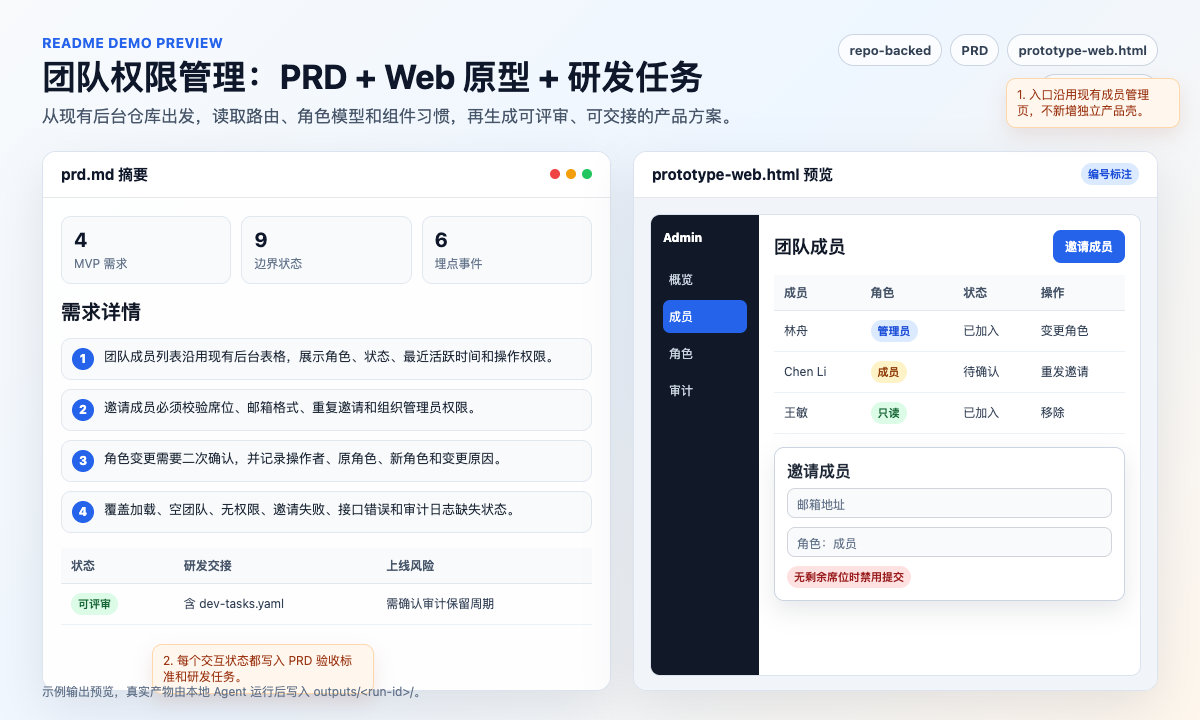
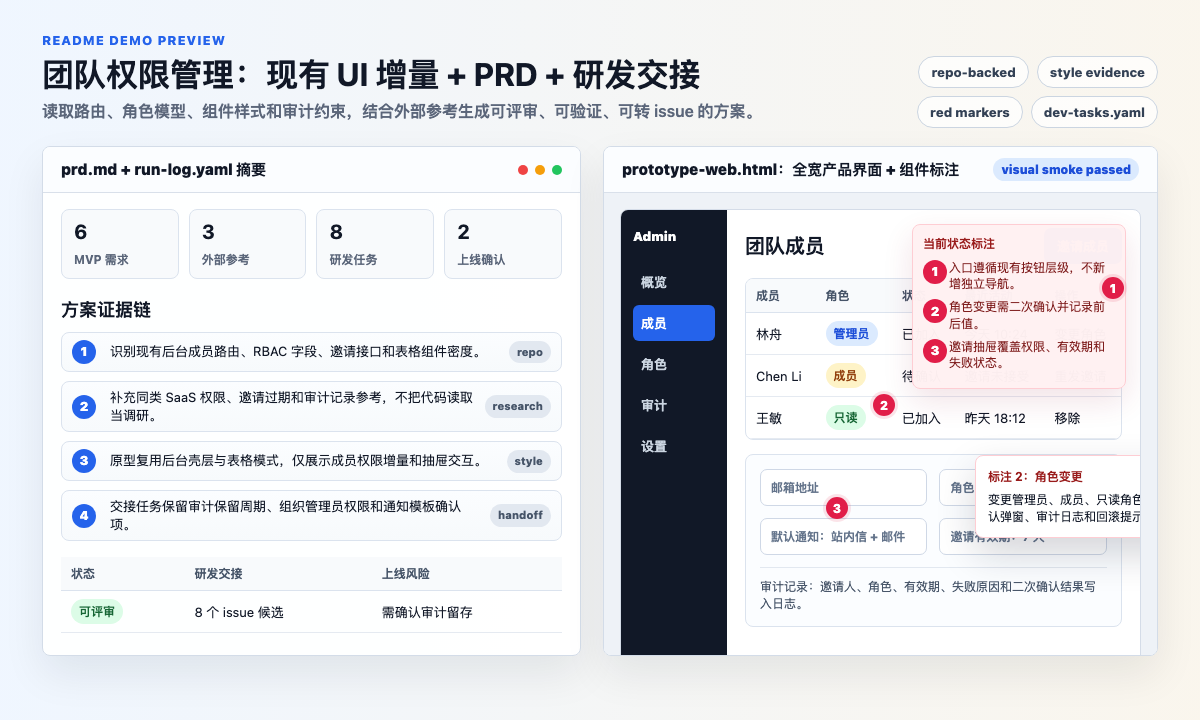
docs: refresh readme demos

diff --git a/README.en.md b/README.en.md
@@ -33,14 +33,14 @@ PM Copilot treats English and Chinese as first-class user-facing languages. Gene
 For direct agent usage, see `docs/direct-use.md`. For embedded project usage, see `docs/embedded-use.md`.
 
 1. Open this repository in your agent-enabled workspace.
-2. Ask the agent to read `PM_COPILOT.md`, then say your product-manager request naturally, for example: `I need a PRD and tracking plan for checkout coupon optimization.`
+2. Ask the agent to read `PM_COPILOT.md`, then say your product-manager request naturally, for example: `I need a PRD, tracking plan, and H5 prototype for membership auto-renewal optimization.`
 3. The agent should inspect relevant context, ask must-answer clarification questions before generation, then create `prd.md` and a prototype automatically.
 4. Optional: create local memory files later for better product-specific results and personal working preferences.
 
 Suggested prompt:
 
 ```text
-We want to improve coupon usage on checkout. Users say they cannot find where to apply coupons, and support tickets are increasing.
+We want to improve the H5 membership auto-renewal experience. Users say renewal reminders are unclear, the cancellation entry is hard to find, and support tickets are increasing.
 
 If important information is missing, ask me first.
 If enough information is available, create `prd.md` and the matching clickable prototype.
@@ -48,18 +48,19 @@ If enough information is available, create `prd.md` and the matching clickable p
 
 ## Two Practical Demos
 
-Paste either request into an agent-enabled workspace. PM Copilot should classify the context mode first, ask blocking questions when required, and generate the PRD, clickable prototype, and optional handoff artifacts only after the clarification gate passes.
+Paste either request into an agent-enabled workspace. PM Copilot should classify the context mode first, load the required agents, skills, contracts, and tooling rules, ask blocking questions when required, and generate the PRD, clickable prototype, run trace, and optional handoff artifacts only after the clarification gate passes.
 
 ### Demo 1: Team Permission Management in an Existing Project
 
-Use this to show that PM Copilot does more than write generic docs: it should inspect the current repository and fit the requirement into existing routes, role models, permission logic, and UI patterns.
+Use this to show that PM Copilot does more than write generic docs: it should inspect the current repository and fit the requirement into existing routes, role models, permission logic, UI components, and analytics conventions while separating external references from current-product context and engineering handoff work.
 
 ![Team permission management demo screenshot](docs/assets/readme-demo-team-permissions.png)
 
 ```text
 We need team permission management in the admin console.
 
-Please inspect the existing routes, role model, member management page, permission checks, and component patterns first.
+Please inspect the existing routes, role model, member management page, permission checks, analytics conventions, and component patterns first.
+Do a small amount of external comparable-product research, but do not treat repository files as competitor research.
 If important information is missing, ask me before generation.
 If enough information is available, create the PRD, a Web clickable annotated prototype, and issue-ready engineering tasks.
 ```
@@ -68,37 +69,38 @@ A useful run should produce:
 
 | Artifact | What to look for |
 |---|---|
-| `outputs/team-permissions/prd.md` | Target users, current-product constraints, MVP/optional/future scope, member invites, role changes, permission blocking, audit logs, loading/empty/error/no-permission states |
-| `outputs/team-permissions/prototype-web.html` | Admin member list, invite drawer, role-change confirmation, permission notice, numbered product annotations |
-| `outputs/team-permissions/dev-tasks.yaml` | Issue-ready engineering tasks, dependencies, acceptance criteria, test notes |
-| `outputs/team-permissions/run-log.yaml` | Host project files loaded, assumptions used, blockers, validation commands and results |
+| `outputs/team-permissions/prd.md` | Target users, current-product constraints, external reference findings, MVP/optional/future scope, member invites, role changes, permission blocking, audit logs, loading/empty/error/no-permission states |
+| `outputs/team-permissions/prototype-web.html` | A Web prototype that reuses the existing admin shell and table density, with red component markers, click-open annotation dialogs, and a current-state annotation list |
+| `outputs/team-permissions/dev-tasks.yaml` | Issue-ready engineering tasks, dependencies, acceptance criteria, test notes, likely host files, and blocking confirmations |
+| `outputs/team-permissions/run-log.yaml` | Context mode, host project files loaded, external research sources, style evidence, existing UI baseline, tool validation, and unresolved risks |
 
-This demo highlights `repo-backed` context loading, Chinese or English PRDs, Web prototypes, tracking design, engineering handoff, and permission/edge-state coverage.
+This demo highlights `repo-backed` context loading, separation of external research from repository context, Chinese or English PRDs, existing-UI delta prototypes, red component annotations, engineering handoff, and permission/edge-state coverage.
 
-### Demo 2: Checkout Coupon Optimization Without a Code Repository
+### Demo 2: Membership Auto-Renewal Optimization Without a Code Repository
 
-Use this to show that PM Copilot can start from a brief or product documents, without requiring a code repository, and still produce review-ready product work.
+Use this to show that PM Copilot can start from a brief or product documents, without requiring a code repository, and still handle higher-risk product requirements involving payment, cancellation, reminders, tracking, privacy, and launch gates.
 
-![Checkout coupon optimization demo screenshot](docs/assets/readme-demo-checkout-coupon.png)
+![Membership auto-renewal demo screenshot](docs/assets/readme-demo-membership-renewal.png)
 
 ```text
-We want to improve the H5 checkout coupon experience. Users say they cannot find the coupon entry, and support tickets are increasing.
+We want to improve the H5 membership auto-renewal experience. Users say renewal reminders are unclear, the cancellation entry is hard to find, and support tickets are increasing.
 
-The business goal is to increase coupon usage without materially hurting payment conversion.
-If you need existing rules, coupon types, unavailable reasons, or metric definitions, ask me first.
-When enough information is available, create the PRD, H5 clickable annotated prototype, and tracking plan.
+The business goal is to reduce renewal-related complaints without materially hurting membership retention.
+If you need current billing rules, reminder timing, cancellation paths, support scripts, legal requirements, or metric definitions, ask me first.
+When enough information is available, create the PRD, H5 clickable annotated prototype, tracking plan, and launch decision recommendation.
 ```
 
 A useful run should produce:
 
 | Artifact | What to look for |
 |---|---|
-| `outputs/checkout-coupon/prd.md` | User problem, business goals, metric definitions, coupon entry, usable/unusable coupons, default recommendation, error states, launch risks, acceptance criteria |
-| `outputs/checkout-coupon/prototype-h5.html` | Checkout entry, coupon list sheet, unavailable reasons, price refresh after selection, mobile annotations |
-| Tracking table inside the PRD | Events such as `checkout_coupon_entry_view`, `coupon_select_submit`, `coupon_apply_result`, plus a property dictionary |
-| `outputs/checkout-coupon/run-log.yaml` | Clarifying questions, default assumptions, unresolved promotion/finance/legal risks, validation records |
+| `outputs/membership-renewal/prd.md` | User problem, business goals, external references, current assumptions, reminder strategy, cancellation flow, payment/support/legal risks, acceptance criteria, and launch status |
+| `outputs/membership-renewal/prototype-h5.html` | Membership center entry, renewal reminder, auto-renewal management, cancellation confirmation, result receipt, logged-out/no-membership/API-failure states |
+| Tracking table inside the PRD | Events such as `renewal_notice_view`, `renewal_manage_open`, `renewal_cancel_submit`, `renewal_cancel_result`, plus privacy notes |
+| `outputs/membership-renewal/launch-decision.yaml` | Engineering-ready scope, launch blockers, legal/payment/support owners, rollback recommendation, and missing human approvals |
+| `outputs/membership-renewal/run-log.yaml` | Clarifying questions, default assumptions, external research status, access-state visual validation, tool results, and unresolved gates |
 
-This demo highlights `document-backed` or `brief-only` mode, localized delivery, mobile prototypes, metrics and tracking, and explicit promotion-rule risk handling.
+This demo highlights `document-backed` or `brief-only` mode, localized delivery, mobile prototypes, access-state coherence, metrics and tracking, explicit payment/privacy/legal risk handling, and separated engineering handoff versus launch decision status.
 
 ## Use Inside an Existing Project
 
@@ -181,7 +183,7 @@ The default interaction mode is "clarify before generation." If must-answer info
 
 For reference, policy, medical, legal, financial, safety, or operational content, PM Copilot records source status, review owner, review status, disclaimer status, and launch impact. Unreviewed content must be labeled as placeholder or draft even when the surrounding product framework is ready for engineering.
 
-Each real requirement run gets one generated-artifact folder under `outputs/<run-id>/`, normally containing `prd.md`, `prototype-<platform>.html`, and optionally `run-log.yaml`. The `outputs/` folder is generated at runtime and is not shipped with example artifacts. If the inferred run id already exists, PM Copilot should append a local timestamp, for example `checkout-coupon-20260518-1430`.
+Each real requirement run gets one generated-artifact folder under `outputs/<run-id>/`, normally containing `prd.md`, `prototype-<platform>.html`, and optionally `run-log.yaml`. The `outputs/` folder is generated at runtime and is not shipped with example artifacts. If the inferred run id already exists, PM Copilot should append a local timestamp, for example `membership-renewal-20260518-1430`.
 
 When UI prototypes are generated, PM Copilot should run `python3 scripts/validate_prototype_visual.py outputs/<run-id>`. If Playwright or browser tooling is missing, it should first run or guide `python3 scripts/setup_visual_validation.py`; a skipped status is allowed only after setup fails, the environment forbids browser launch, or the user declines installation. Before final delivery, prefer `python3 scripts/run_delivery_checks.py outputs/<run-id> --language en` and store tool evidence under `outputs/<run-id>/tool-results/`. When the user asks for engineering handoff or release readiness, the same run folder may also contain `dev-tasks.yaml` and `launch-decision.yaml`.
 

diff --git a/docs/direct-use.md b/docs/direct-use.md
@@ -23,10 +23,12 @@ The agent should automatically follow `PM_COPILOT.md` and:
 - Ask must-answer clarification questions before downstream generation.
 - Stop and wait when critical information is missing or an unresolved development/launch confirmation blocks the requested readiness.
 - Generate `prd.md`, a prototype when relevant, optional exports when useful, and an internal run log.
-- Keep requirement input, clarified answers, assumptions, research/reference findings, metrics, tracking plan tables, flow diagrams, risks, acceptance criteria, and validation results inside `prd.md` by default.
+- Keep requirement input, clarified answers, assumptions, source-backed research/reference findings, metrics, tracking plan tables, flow diagrams, risks, acceptance criteria, and validation results inside `prd.md` by default.
+- Treat repository files as current-product context, not as competitor or benchmark research. When external research is unavailable, mark recommendations as assumption-based.
+- For UI prototypes, use visible red component markers, click-open annotation dialogs, and current-state annotation lists instead of shrinking the product UI into a permanent side annotation board.
 - Run tool preflight and validation when required by `tools/tool-registry.yaml`.
 - Prefer `python3 scripts/run_delivery_checks.py outputs/<run-id> --language <zh|en>` before final delivery.
-- Run browser screenshot/visual diff validation for prototypes. If Playwright/browser tooling is missing, first run or guide `python3 scripts/setup_visual_validation.py`; skip only when setup fails, the environment forbids browser launch, or the user declines installation.
+- Run browser screenshot/visual diff validation for prototypes, including DOM smoke and access-state checks when applicable. If Playwright/browser tooling is missing, first run or guide `python3 scripts/setup_visual_validation.py`; skip only when setup fails, the environment forbids browser launch, or the user declines installation.
 - Generate `dev-tasks.yaml` or `launch-decision.yaml` only when you ask for engineering handoff, issue planning, release readiness, or launch decision support.
 
 ## Direct Entry
@@ -120,21 +122,24 @@ If you ask for unattended development handoff, PM Copilot can generate issue-rea
 ## Example
 
 ```text
-We want to improve coupon usage on checkout. Users say they cannot find where to apply coupons, and support tickets are increasing.
+We want to improve the H5 membership auto-renewal experience. Users say renewal reminders are unclear, the cancellation entry is hard to find, and support tickets are increasing.
+
+If you need current billing rules, reminder timing, cancellation paths, support scripts, legal requirements, or metric definitions, ask me first.
 ```
 
 Expected generated paths:
 
 ```text
-outputs/checkout-coupon/prd.md
-outputs/checkout-coupon/prototype-h5.html
+outputs/membership-renewal/prd.md
+outputs/membership-renewal/prototype-h5.html
+outputs/membership-renewal/run-log.yaml
 ```
 
 If the same scenario already exists, the agent should create a timestamped run folder such as:
 
 ```text
-outputs/checkout-coupon-20260518-1430/prd.md
-outputs/checkout-coupon-20260518-1430/prototype-h5.html
+outputs/membership-renewal-20260518-1430/prd.md
+outputs/membership-renewal-20260518-1430/prototype-h5.html
 ```
 
 ## When to Prepare Extra Context

diff --git a/CHANGELOG.md b/CHANGELOG.md
@@ -6,6 +6,22 @@ The project uses three-segment semantic versioning: `MAJOR.MINOR.PATCH`.
 Historical entries below are reconstructed from the git commit order so every committed change has a version entry.
 See `docs/versioning.md` for upgrade rules, compatibility policy, and release checklist.
 
+## [2.0.4] - 2026-05-19
+
+Commit: pending release commit.
+
+### Changed
+
+- Bumped the project version to `2.0.4` for refreshed README demos and user-facing usage documentation.
+- Refreshed README and direct-use demos to show the stronger repo-backed style-reuse workflow, red component annotations, access-state validation, external research, engineering handoff, and launch decision gates.
+- Replaced the checkout coupon README demo image with a membership auto-renewal demo that better exercises payment, privacy, legal, and launch readiness behavior.
+
+### Validation
+
+- Repository validation passes with `python3 scripts/validate_repo.py`.
+- Git whitespace validation passes with `git diff --check`.
+- README demo images are verified at `1200 x 720` with `sips`.
+
 ## [2.0.3] - 2026-05-19
 
 Commit: pending release commit.

diff --git a/docs/embedded-use.md b/docs/embedded-use.md
@@ -45,14 +45,20 @@ Do not rely on nested tool-specific instruction files for embedded mode. The hos
 Install an adapter into the host repository so users can say natural requests like:
 
 ```text
-I need a PRD and tracking plan for checkout coupon optimization.
+I need a PRD, tracking plan, and H5 prototype for membership auto-renewal optimization.
 ```
 
 The adapter should detect product-manager tasks and delegate to `pm-copilot/PM_COPILOT.md`.
 
 Before generating PRD, metrics, tracking, flow, or prototype artifacts, the agent should run or record tool preflight, inspect relevant host project files, and ask must-answer questions when the current product fit is unclear.
 
-For UI work, embedded runs should use host context for visual validation and run `scripts/validate_prototype_visual.py`. If browser tooling is missing, run or guide `scripts/setup_visual_validation.py` before deciding to skip. Store screenshot/diff evidence under the generated run folder, not in host product source directories.
+For solution shaping, repository files are current-product context and engineering constraints. They do not replace external competitor, benchmark, comparable-feature, policy, or public-solution research when that research materially affects the product decision.
+
+For UI work, embedded runs should reuse the host app's current surface instead of inventing a new shell. Inspect relevant routes, components, theme tokens, global styles, screenshots, Storybook/demo pages, and nearby UI modules; record `style_evidence` and, when possible, an `existing_ui_visual_baseline` in the run log.
+
+Embedded prototypes should use red component-level annotation markers, click-open annotation dialogs, and a current-state annotation list while preserving the product surface's real page width, scroll behavior, modals, and access states. They should not expose signed-in-only account data or privileged actions in logged-out, guest, or no-permission states.
+
+For UI validation, embedded runs should use host context and run `scripts/validate_prototype_visual.py`. If browser tooling is missing, run or guide `scripts/setup_visual_validation.py` before deciding to skip. Store screenshot/diff evidence under the generated run folder, not in host product source directories.
 
 Before final embedded delivery, prefer:
 